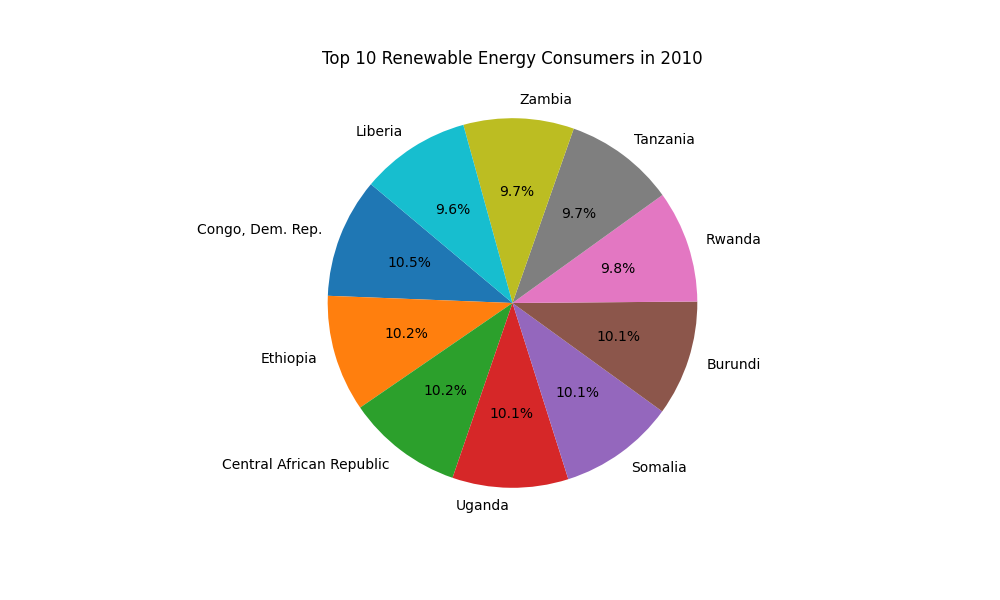
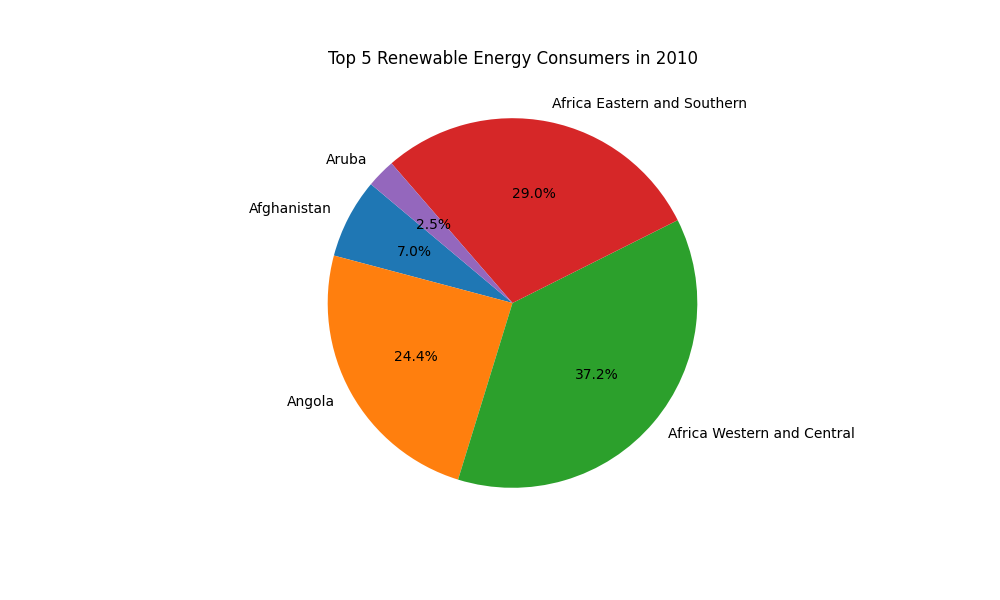
Update endpoints to show top 5 renewable energy consumers and update README

diff --git a/app/routers/energy.py b/app/routers/energy.py
@@ -37,11 +37,29 @@ if not os.path.exists(GRAPH_FOLDER):
 # Initialize BigQuery client
 client = bigquery.Client()
 
+
+def build_query(base_query: str, filters: dict) -> str:
+    """Dynamically build a query with optional filters."""
+    query = base_query
+    for key, value in filters.items():
+        if value is not None:
+            query += f" AND {key} = '{value}'" if isinstance(value, str) else f" AND {key} = {value}"
+    query += " ORDER BY Year DESC"
+    return query
+
+
+def save_and_return_chart(buf: BytesIO, filename: str):
+    """Save the chart and return it as a FileResponse."""
+    file_path = save_chart_and_return_path(buf, filename)
+    return FileResponse(file_path, media_type="image/png")
+
+
 # Add this function to improve error handling
 def handle_exception(e: Exception, detail: str = "An error occurred"):
     """Log the error and return an HTTPException."""
     logger.error(f"{detail}: {e}")
     raise HTTPException(status_code=500, detail=detail)
+
 
 # Modify this existing function in energy.py
 def fetch_data_from_bigquery(query: str):
@@ -52,6 +70,15 @@ def fetch_data_from_bigquery(query: str):
     except Exception as e:
         handle_exception(e, "Error fetching data from BigQuery")
 
+
+def check_no_data(results, logger_message: str):
+    """Check if results are empty and log a warning."""
+    if not results.total_rows:
+        logger.warning(logger_message)
+        return {"status": "success", "data": [], "message": "No data found for the given filters."}
+    return None
+
+
 def save_chart_and_return_path(buf, filename: str):
     """Save chart buffer to file and return the file path."""
     file_path = os.path.join(GRAPH_FOLDER, filename)
@@ -59,6 +86,7 @@ def save_chart_and_return_path(buf, filename: str):
         f.write(buf.getvalue())
     logger.info(f"Chart saved at: {file_path}")
     return file_path
+
 
 def generate_pie_chart(labels, values, title: str):
     """Generate a pie chart."""
@@ -70,6 +98,7 @@ def generate_pie_chart(labels, values, title: str):
     plt.close()
     buf.seek(0)
     return buf
+
 
 def generate_bar_chart(x_values, y_values, title: str, x_label: str, y_label: str):
     """Generate a bar chart."""
@@ -85,6 +114,7 @@ def generate_bar_chart(x_values, y_values, title: str, x_label: str, y_label: st
     buf.seek(0)
     return buf
 
+
 def generate_line_chart(x_values, y_values, title: str, x_label: str, y_label: str):
     """Generate a line chart."""
     plt.figure(figsize=(12, 7))
@@ -99,9 +129,15 @@ def generate_line_chart(x_values, y_values, title: str, x_label: str, y_label: s
     buf.seek(0)
     return buf
 
+
 # ------------------------------
 # Endpoints with Save Functionality
 # ------------------------------
+
+class ClimateDataResponse(BaseModel):
+    status: str
+    data: List[dict]
+
 
 @router.get(
     "/energy/climate-data",
@@ -113,32 +149,21 @@ async def get_climate_data(
     country: str = Query(None, description="Country code to filter data")
 ):
     """Fetch global climate data with optional filters for year and country."""
-    # Start with a base query
-    query = """
+    base_query = """
         SELECT year, average_temperature, country
         FROM `global-environment-project.climate_data.global_temperature`
         WHERE TRUE
     """
-
-    # Add filters dynamically, ensuring proper formatting
-    if year:
-        query += f" AND year = {year}"
-    if country:
-        query += f" AND country = '{country}'"
-
-    query += " ORDER BY year DESC"
-
-    logger.info(f"Executing query: {query}") 
-
-    # Fetch data
+    query = build_query(base_query, {"year": year, "country": country})
     results = fetch_data_from_bigquery(query)
-    if not results.total_rows:
-        logger.warning("No data found for the climate data query.")
-        return {"status": "success", "data": [], "message": "No data found for the given filters."}
 
-    # Format and return data
+    no_data_response = check_no_data(results, "No data found for the climate data query.")
+    if no_data_response:
+        return no_data_response
+
     data = [{"year": row.year, "temp": row.average_temperature, "country": row.country} for row in results]
     return {"status": "success", "data": data}
+
 
 @router.get("/energy/renewable-energy/{country_code}")
 async def get_renewable_energy(country_code: str):
@@ -151,77 +176,86 @@ async def get_renewable_energy(country_code: str):
     """
     results = fetch_data_from_bigquery(query)
     
-    # Return an empty response if no data is found
-    if not results.total_rows:
-        logger.warning("No data found for the climate data query.")
-        return {"status": "success", "data": [], "message": "No data found for the given filters."}
 
+    # Return an empty response if no data is found
+    no_data_response = check_no_data(results, "No data found for the climate data query.")
+    if no_data_response:
+        return no_data_response
+    
     data = [{"Year": row.Year, "Country": row["Country Name"], "Consumption": row.Renewable_Energy_Consumption} for row in results]
     return {"status": "success", "data": data}
 
 
 @router.get("/energy/graph/pie/renewable-energy/{year}")
 async def get_pie_chart_renewable_energy(year: int):
-    """Generate and return a pie chart for renewable energy consumption."""
-    query = f"""
+    """Generate and return a pie chart for the top 5 renewable energy consumers in a given year."""
+    # Base SQL query for renewable energy consumption
+    base_query = """
         SELECT `Country Name`, Renewable_Energy_Consumption
         FROM `global-environment-project.renewable_energy_data.renewable_energy_consumption`
-        WHERE Year = {year}
-        ORDER BY Renewable_Energy_Consumption DESC
-        LIMIT 10
+        WHERE TRUE
     """
-    results = fetch_data_from_bigquery(query)
+    # Dynamically add the Year filter and limit to top 5 results
+    query = build_query(base_query, {"Year": year}) + " LIMIT 5"
     
-    # Return an empty response if no data is found
-    if not results.total_rows:
-        logger.warning("No data found for the query.")
-        return {"status": "success", "data": [], "message": "No data found for the given filters."}
+    # Fetch results from BigQuery
+    results = fetch_data_from_bigquery(query)
 
-    countries, consumption = zip(*[(row["Country Name"], row.Renewable_Energy_Consumption) for row in results])
-    buf = generate_pie_chart(countries, consumption, f"Top 10 Renewable Energy Consumers in {year}")
-    file_path = save_chart_and_return_path(buf, f"top_10_renewable_{year}.png")
-    return FileResponse(file_path, media_type="image/png")
+    # Check if no data is available and handle gracefully
+    no_data_response = check_no_data(results, "No data found for the query.")
+    if no_data_response:
+        return no_data_response
+
+    # Extract countries and their respective consumption values
+    countries, consumption = zip(*[
+        (row["Country Name"], row.Renewable_Energy_Consumption) 
+        for row in results
+    ])
+
+    # Generate the pie chart
+    buf = generate_pie_chart(countries, consumption, f"Top 5 Renewable Energy Consumers in {year}")
+
+    # Save the chart and return as a file response
+    return save_and_return_chart(buf, f"top_5_renewable_{year}.png")
+
+
 
 
 @router.get("/energy/graph/bar/renewable-energy/{country_code}")
 async def get_bar_chart_renewable_energy(country_code: str):
     """Generate and return a bar chart for renewable energy consumption."""
-    query = f"""
+    base_query = """
         SELECT Year, Renewable_Energy_Consumption
         FROM `global-environment-project.renewable_energy_data.renewable_energy_consumption`
-        WHERE `Country Code` = '{country_code}'
-        ORDER BY Year ASC
+        WHERE TRUE
     """
+    query = build_query(base_query, {"`Country Code`": country_code})  
     results = fetch_data_from_bigquery(query)
-    
-    # Return an empty response if no data is found
-    if not results.total_rows:
-        logger.warning("No data found for the climate data query.")
-        return {"status": "success", "data": [], "message": "No data found for the given filters."}
+
+    no_data_response = check_no_data(results, "No data found for the climate data query.")
+    if no_data_response:
+        return no_data_response
 
     years, consumption = zip(*[(row.Year, row.Renewable_Energy_Consumption) for row in results])
     buf = generate_bar_chart(years, consumption, f"Renewable Energy Consumption in {country_code}", "Year", "Consumption (%)")
-    file_path = save_chart_and_return_path(buf, f"{country_code}_bar_chart.png")
-    return FileResponse(file_path, media_type="image/png")
+    return save_and_return_chart(buf, f"{country_code}_bar_chart.png")  
 
 
 @router.get("/energy/graph/line/renewable-energy/{country_code}")
 async def get_line_chart_renewable_energy(country_code: str):
     """Generate and return a line chart for renewable energy consumption."""
-    query = f"""
+    base_query = """
         SELECT Year, Renewable_Energy_Consumption
         FROM `global-environment-project.renewable_energy_data.renewable_energy_consumption`
-        WHERE `Country Code` = '{country_code}'
-        ORDER BY Year ASC
+        WHERE TRUE
     """
+    query = build_query(base_query, {"`Country Code`": country_code})  
     results = fetch_data_from_bigquery(query)
-    
-    # Return an empty response if no data is found
-    if not results.total_rows:
-        logger.warning("No data found for the climate data query.")
-        return {"status": "success", "data": [], "message": "No data found for the given filters."}
+
+    no_data_response = check_no_data(results, "No data found for the climate data query.")
+    if no_data_response:
+        return no_data_response
 
     years, consumption = zip(*[(row.Year, row.Renewable_Energy_Consumption) for row in results])
     buf = generate_line_chart(years, consumption, f"Renewable Energy Consumption Over Time in {country_code}", "Year", "Consumption (%)")
-    file_path = save_chart_and_return_path(buf, f"{country_code}_line_chart.png")
-    return FileResponse(file_path, media_type="image/png")
+    return save_and_return_chart(buf, f"{country_code}_line_chart.png")  

diff --git a/README.md b/README.md
@@ -13,6 +13,7 @@ This project provides a robust and scalable RESTful API for analyzing **climate 
 2. **Renewable Energy Trends**:
    - Fetch renewable energy consumption data for any country and year.
    - Visualize energy trends with **bar charts, line graphs, and pie charts**.
+   - **Pie charts now show the Top 5 renewable energy consumers for a selected year**.
 
 3. **Graph Generation & Saving**:
    - Generate interactive graphs for energy data.
@@ -47,12 +48,13 @@ This project provides a robust and scalable RESTful API for analyzing **climate 
 ---
 
 ### **Renewable Energy Data**
-| Method | Endpoint                                      | Description                                     |
-|--------|----------------------------------------------|-------------------------------------------------|
-| GET    | `/energy/renewable-energy/{country_code}`    | Fetch renewable energy consumption by country.  |
-| GET    | `/energy/graph/pie/renewable-energy/{year}`  | Generate a pie chart for top energy consumers. |
-| GET    | `/energy/graph/bar/renewable-energy/{country_code}` | Generate a bar chart for energy trends. |
-| GET    | `/energy/graph/line/renewable-energy/{country_code}` | Generate a line chart for energy trends. |
+| Method | Endpoint                                      | Description                                      |
+|--------|----------------------------------------------|--------------------------------------------------|
+| GET    | `/energy/renewable-energy/{country_code}`    | Fetch renewable energy consumption by country.   |
+| GET    | `/energy/graph/pie/renewable-energy/{year}`  | Generate a pie chart for **Top 5 energy consumers**. |
+| GET    | `/energy/graph/bar/renewable-energy/{country_code}` | Generate a bar chart for energy trends.  |
+| GET    | `/energy/graph/line/renewable-energy/{country_code}` | Generate a line chart for energy trends.  |
+
 
 ---
 
@@ -71,7 +73,8 @@ Save generated graphs as PNG files to the `static/graphs/` folder.
 
 - **Example**:  
   - `static/graphs/JPN_bar_chart.png`  
-  - `static/graphs/top_10_renewable_2010.png`
+  - `static/graphs/top_5_renewable_2010.png`
+
 
 ---
 
@@ -83,8 +86,9 @@ Save generated graphs as PNG files to the `static/graphs/` folder.
 ### **Line Chart: Renewable Energy in Japan**
 ![Japan Renewable Energy Line Chart](static/graphs/JPN_line_chart.png)
 
-### **Pie Chart: Top 10 Renewable Energy Consumers (2010)**
-![Top Renewable Energy Consumers Pie Chart](static/graphs/top_10_renewable_2010.png)
+### **Pie Chart: Top 5 Renewable Energy Consumers (2010)**
+![Top Renewable Energy Consumers Pie Chart](static/graphs/top_5_renewable_2010.png)
+
 
 ---
 
